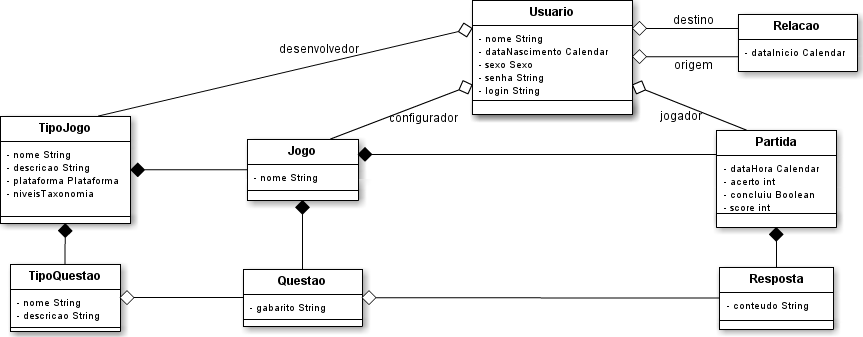
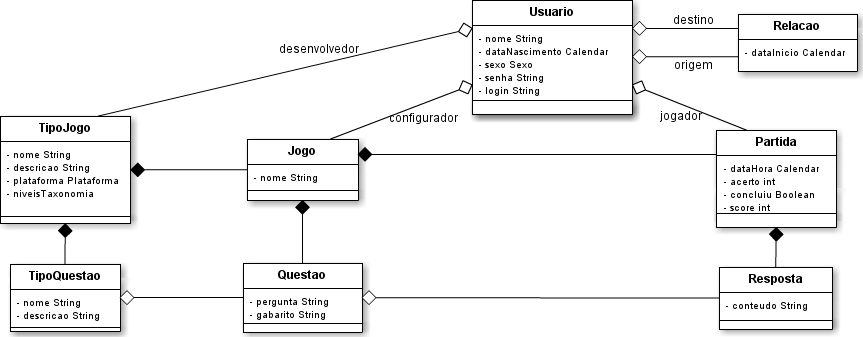
Adicionando o atributo Questao.pergunta

Changed region(s): [[0.2711, 0.7715, 0.4218, 1.0], [0.8737, 0.8012, 0.934, 0.8605], [0.8436, 0.8902, 0.934, 0.9199]]

diff --git a/src/main/java/br/ufpb/dce/bloomer/core/model/Questao.java b/src/main/java/br/ufpb/dce/bloomer/core/model/Questao.java
@@ -29,6 +29,9 @@ import flexjson.JSONSerializer;
 @RooJson
 public class Questao {
 
+    @Size(max = 1000)
+    private String pergunta;
+    
     @Size(max = 4000)
     private String gabarito;
 
@@ -61,6 +64,7 @@ public class Questao {
 		ObjectNode noQuestao = JsonNodeFactory.instance.objectNode();
 		
 		noQuestao.put("id", questao.getId());
+		noQuestao.put("pergunta", questao.getPergunta());
 		noQuestao.put("gabarito", questao.getGabarito());
 		noQuestao.put("jogo", questao.getJogo().getId());
 		noQuestao.put("tipoquestao", questao.getTipo().getId());
@@ -86,6 +90,10 @@ public class Questao {
 				questao.setGabarito(questaoJSON.get("gabarito").asText());
 			}
 
+			if (questaoJSON.has("pergunta")) {
+				questao.setPergunta(questaoJSON.get("pergunta").asText());
+			}
+			
 			if (questaoJSON.has("jogo")) {
 				Jogo jogo = Jogo.findJogo(questaoJSON.get("jogo").asLong());
 				questao.setJogo(jogo);
